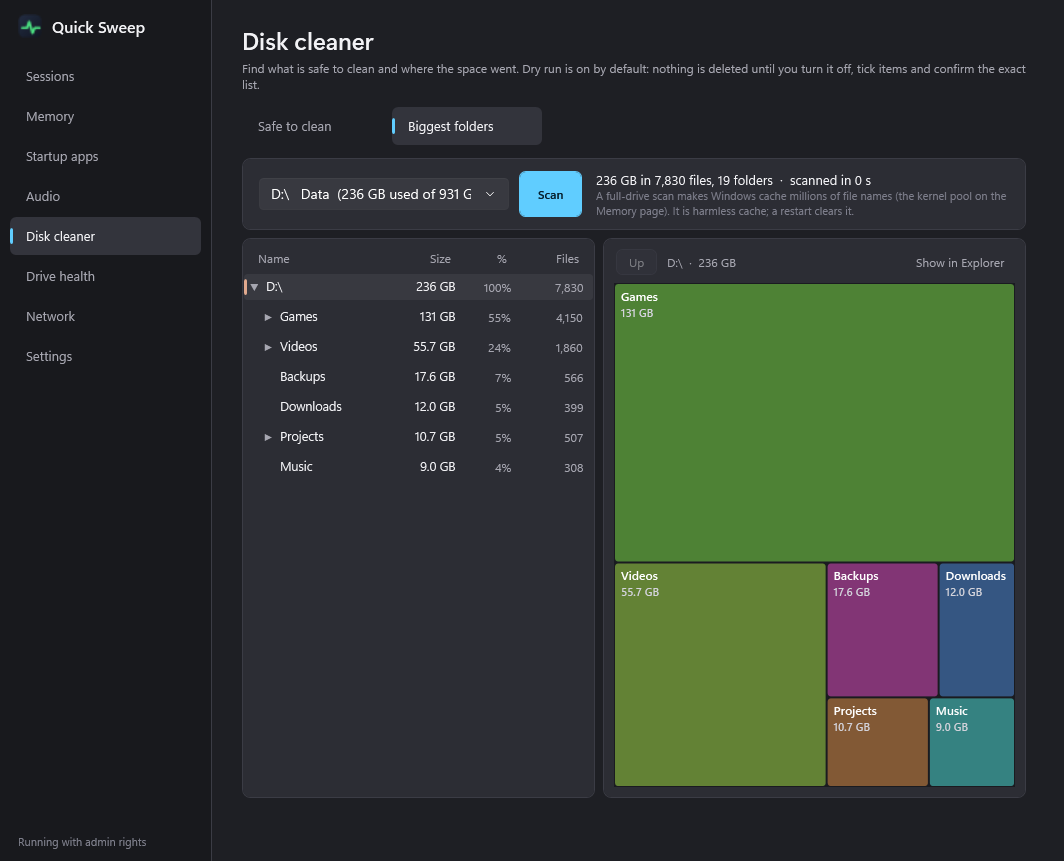
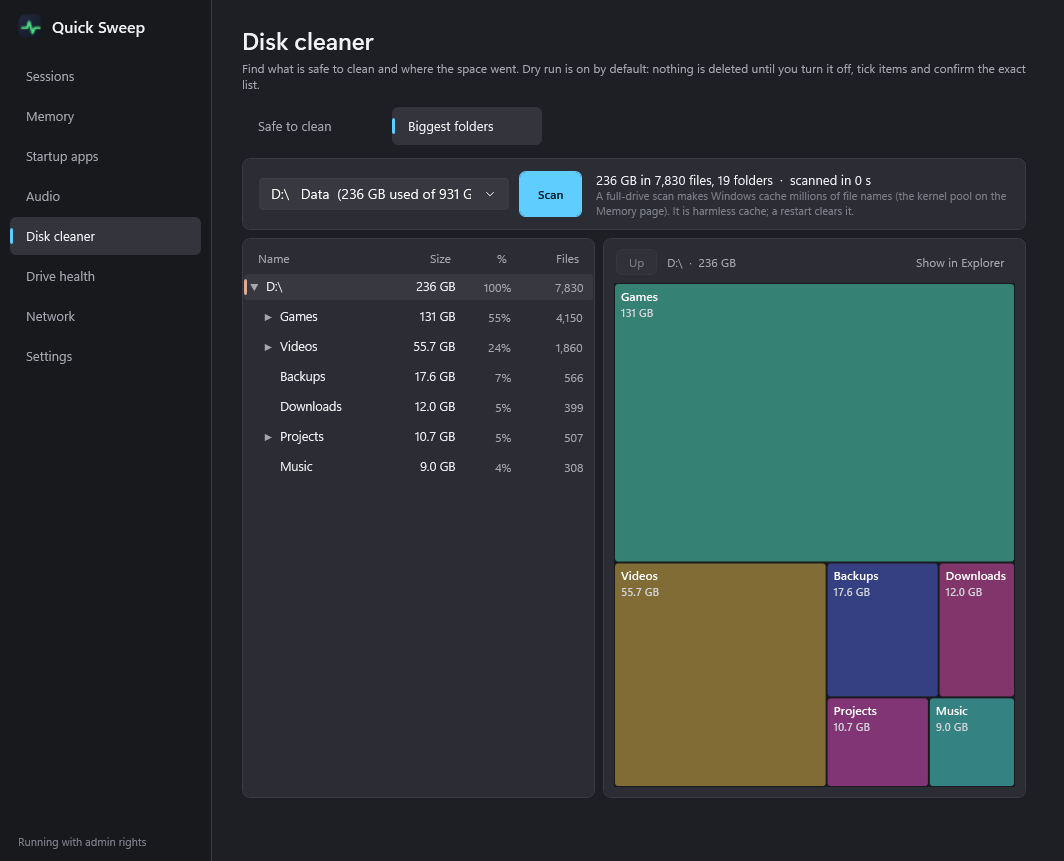
Quick Sweep 1.0.2: installer permission check no longer skips inherited entries, explicit ACLs after the copy, modules imported by full path
- install.ps1: only inherit-only CREATOR OWNER/CREATOR GROUP entries are excused; any other inheritable entry that lets a non-administrator write makes a folder untrusted (generic rights included). The install folder gets explicit protected permissions before the copy, every copied file is reset to inherit them and checked, again before the logon task is registered; the data folder is verified the same way (an untrusted one is set aside, never deleted).
- install.ps1 / uninstall.ps1 import the PowerShell modules they use by full path from the Windows PowerShell system folder and run themselves again in Windows PowerShell 5.1 when started from PowerShell 7. This fixes the 1.0.1 workflow failure (a PowerShell 7 module path inherited by the 5.1 child broke Get-Acl).
- The app's data-folder check also recognises inherited entries stored with generic rights.
- Tests for inherited entries, a PowerShell-7-style module path, whole-tree checks, and an administrator-only permission round trip. CHANGELOG.md covers 1.0.1 and 1.0.2.

Changed region(s): [[0.5583, 0.3322, 0.9615, 0.9361]]

diff --git a/tests/QuickSweep.Tests/InstallerScriptTests.cs b/tests/QuickSweep.Tests/InstallerScriptTests.cs
@@ -22,14 +22,15 @@ public class InstallerScriptTests
     static string PowerShell => Path.Combine(Environment.SystemDirectory, @"WindowsPowerShell\v1.0\powershell.exe");
 
     /// <summary>Runs one scenario of tests/scripts/installer-checks.ps1; null when the repository layout is not available.</summary>
-    static Dictionary<string, string>? Run(string script, string scenario, string? work = null)
+    static Dictionary<string, string>? Run(string script, string scenario, string? work = null, string? modulePath = null, bool raw = false)
     {
         var root = RepoRoot();
         if (root == null || !File.Exists(PowerShell)) return null;
         var psi = new ProcessStartInfo(PowerShell,
             $"-NoProfile -ExecutionPolicy Bypass -File \"{Path.Combine(root, "tests", "scripts", "installer-checks.ps1")}\" -Script \"{Path.Combine(root, script)}\" -Scenario {scenario}" +
-            (work != null ? $" -Work \"{work}\"" : ""))
+            (work != null ? $" -Work \"{work}\"" : "") + (raw ? " -Raw" : ""))
         { UseShellExecute = false, CreateNoWindow = true, RedirectStandardOutput = true, RedirectStandardError = true };
+        if (modulePath != null) psi.Environment["PSModulePath"] = modulePath;       // what a PowerShell 7 step of the workflow hands to a child
         using var p = Process.Start(psi)!;
         var stdout = p.StandardOutput.ReadToEnd(); var stderr = p.StandardError.ReadToEnd();
         Assert.True(p.WaitForExit(120_000), "the child PowerShell did not finish");
@@ -94,14 +95,107 @@ public class InstallerScriptTests
     }
 
     [Fact]
-    public void ASystemFolderIsTrustedAndALinkOrMissingFolderIsNot()
+    public void ALinkOrAMissingFolderIsNotTrusted()
     {
         using var sb = new Sandbox();
+        var junction = Run("install.ps1", "trust-junction", sb.Root);
+        if (junction == null) return;
+        Assert.Equal("False", junction["trusted"]);
+        Assert.Equal("False", Run("install.ps1", "trust-missing", sb.Root)!["trusted"]);
+    }
+
+    [Fact]
+    public void TheInstallersOwnPermissionsAreTrustedAndAGrantBelowThemIsNot()
+    {
+        // needs administrator rights (it takes ownership for Administrators): on a normal account the scenario reports "skipped", on the
+        // hosted runner it is the positive control for Set-AdminOnlyAcl, Test-TrustedStateFolder and Test-AdminOnlyTree
+        using var sb = new Sandbox();
+        var r = Run("install.ps1", "acl-roundtrip", sb.Root);
+        if (r == null || r.ContainsKey("skipped")) return;
+        Assert.Equal("True", r["folder-trusted"]);
+        Assert.Equal("True", r["tree-trusted"]);
+        Assert.Equal("False", r["tree-after-grant"]);
+    }
+
+    [Fact]
+    public void ASystemFolderWithItsDefaultPermissionsIsTrustedWhenTheImageIsStandard()
+    {
+        // informational positive control on this machine's own System32\drivers\etc: only a False caused by something other than the
+        // permission rules (an unusual image) would be a reason to look, so the assertion is on the rule-level cases above instead
         var sys = Run("install.ps1", "trust-system");
         if (sys == null) return;
-        Assert.Equal("True", sys["trusted"]);
-        Assert.Equal("False", Run("install.ps1", "trust-junction", sb.Root)!["trusted"]);
-        Assert.Equal("False", Run("install.ps1", "trust-missing", sb.Root)!["trusted"]);
+        Assert.Contains(sys["trusted"], new[] { "True", "False" });
+    }
+
+    [Fact]
+    public void AnInheritableEntryThatLetsANonAdministratorWriteMakesTheFolderUntrusted()
+    {
+        var r = Run("install.ps1", "aces");
+        if (r == null) return;
+        // entries that children inherit are judged like entries on the folder (they used to be skipped: a fail-open check)
+        Assert.Equal("1", r["users-modify-inheritable"]);
+        Assert.Equal("1", r["users-modify-inherit-only"]);
+        Assert.Equal("1", r["users-generic-all-inherit-only"]);
+        Assert.Equal("1", r["users-generic-write-inherit-only"]);
+        Assert.Equal("1", r["authenticated-users-modify-inherit-only"]);
+        Assert.Equal("1", r["everyone-write-inherit-only"]);
+        Assert.Equal("1", r["creator-owner-applies-to-folder"]);                     // only the inherit-only placeholder is excused
+        Assert.Equal("1", r["program-files-plus-a-users-modify-entry"]);
+        // what is allowed: read and execute for users, the CREATOR placeholders, administrative accounts, deny entries
+        Assert.Equal("0", r["users-generic-read-exec-inherit-only"]);
+        Assert.Equal("0", r["users-read-execute"]);
+        Assert.Equal("0", r["creator-owner-inherit-only"]);
+        Assert.Equal("0", r["creator-group-inherit-only"]);
+        Assert.Equal("0", r["administrators-inherit-only"]);
+        Assert.Equal("0", r["system-and-trustedinstaller"]);
+        Assert.Equal("0", r["deny-entries-are-ignored"]);
+        Assert.Equal("0", r["typical-program-files-folder"]);                         // the real default ACL of a Program Files subfolder passes
+    }
+
+    [Fact]
+    public void TheTreeCheckRefusesAWritableChildAndALinkAnywhereBelow()
+    {
+        using var sb = new Sandbox();
+        var r = Run("install.ps1", "tree-child-writable", sb.Root);
+        if (r == null) return;
+        Assert.Equal("False", r["tree-trusted"]);
+        Assert.Equal("False", Run("install.ps1", "tree-link", sb.Root)!["tree-trusted"]);
+    }
+
+    [Fact]
+    public void AnInheritedPowerShellSevenModulePathCannotBreakTheInstallerFunctions()
+    {
+        // The workflow runs "dotnet test" from a pwsh (PowerShell 7) step, and the Windows PowerShell 5.1 child inherits PowerShell 7's
+        // module path, where an incompatible Microsoft.PowerShell.Security comes first: Get-Acl then "could not be loaded". A stand-in for
+        // that module (it demands PowerShell 7) is put first, exactly like that.
+        using var sb = new Sandbox();
+        var fake = sb.Dir("ps7-modules");
+        var mod = sb.Dir("ps7-modules", "Microsoft.PowerShell.Security");
+        File.WriteAllText(Path.Combine(mod, "Microsoft.PowerShell.Security.psd1"),
+            "@{ ModuleVersion = '7.0.0.0'; GUID = 'a9dd0f3d-4a8c-4f43-8f16-5c0f0b6d9b11'; PowerShellVersion = '7.0'; CompatiblePSEditions = @('Core'); CmdletsToExport = @('Get-Acl','Set-Acl') }");
+        string inherited = fake + ";" + Environment.GetEnvironmentVariable("PSModulePath");
+        var raw = Run("install.ps1", "autoload", sb.Root, inherited, raw: true);
+        if (raw == null) return;
+        Assert.Equal("failed", raw["autoload"]);                                                   // the stand-in reproduces the workflow's failure
+        // with the installer's own reset and explicit import (what install.ps1 and uninstall.ps1 do first), the same environment works
+        Assert.Contains(Run("install.ps1", "trust-system", sb.Root, inherited)!["trusted"], new[] { "True", "False" });   // runs; Get-Acl loaded
+        Assert.Equal("False", Run("install.ps1", "trust-users-writable", sb.Root, inherited)!["trusted"]);
+        Assert.Equal("ok", Run("uninstall.ps1", "autoload", sb.Root, inherited)!["autoload"]);
+    }
+
+    [Fact]
+    public void BothScriptsImportWhatTheyUseByFullPathAndRerunInWindowsPowerShellWhenStartedFromPowerShellSeven()
+    {
+        var root = RepoRoot();
+        if (root == null) return;
+        foreach (var name in new[] { "install.ps1", "uninstall.ps1" })
+        {
+            var text = File.ReadAllText(Path.Combine(root, name));
+            Assert.Contains("Import-SystemModules @('ScheduledTasks')", text.Replace("'Microsoft.PowerShell.Security', ", ""));
+            Assert.Contains("Import-SystemModules @('Appx') -Optional", text);
+            Assert.Contains("$PSVersionTable.PSEdition -eq 'Core'", text);                  // started from PowerShell 7: run again in 5.1
+            Assert.Contains(@"WindowsPowerShell\v1.0\powershell.exe", text);
+        }
     }
 
     [Fact]

diff --git a/tests/QuickSweep.Tests/StandardUserTests.cs b/tests/QuickSweep.Tests/StandardUserTests.cs
@@ -18,3 +18,27 @@ public class StandardUserCanary
         Assert.False(new WindowsPrincipal(WindowsIdentity.GetCurrent()).IsInRole(WindowsBuiltInRole.Administrator));
     }
 }
+
+/// <summary>The state-folder check sees entries that children inherit (stored with generic rights), not only entries on the folder itself.</summary>
+public class InheritedEntryTests
+{
+    static List<string> Flagged(string sddl)
+    {
+        var sec = new System.Security.AccessControl.DirectorySecurity();
+        sec.SetSecurityDescriptorSddlForm(sddl);
+        return StateFolder.PermissiveEntries(sec);
+    }
+
+    [Theory]
+    [InlineData("D:(A;OICIIO;GA;;;BU)")]            // users: everything, for new children
+    [InlineData("D:(A;OICIIO;GW;;;BU)")]
+    [InlineData("D:(A;OICIIO;GA;;;AU)")]
+    [InlineData("D:(A;OICI;0x1301bf;;;BU)")]
+    public void AnEntryThatLetsUsersWriteIsFlaggedWhetherOrNotItAppliesToTheFolderItself(string sddl) => Assert.NotEmpty(Flagged(sddl));
+
+    [Theory]
+    [InlineData("D:(A;OICI;0x1200a9;;;BU)")]
+    [InlineData("D:(A;OICIIO;GRGX;;;BU)")]
+    [InlineData("D:(A;;FA;;;SY)(A;OICIIO;GA;;;SY)(A;;FA;;;BA)(A;OICIIO;GA;;;BA)")]
+    public void ReadOnlyEntriesAndAdministrativeAccountsAreNot(string sddl) => Assert.Empty(Flagged(sddl));
+}

diff --git a/src/QuickSweep/Core/StateFolder.cs b/src/QuickSweep/Core/StateFolder.cs
@@ -20,7 +20,8 @@ public static class StateFolder
 
     /// <summary>Rights that let an account change what the elevated process will later read or write.</summary>
     const FileSystemRights WriteLike = FileSystemRights.Write | FileSystemRights.Delete | FileSystemRights.DeleteSubdirectoriesAndFiles
-        | FileSystemRights.ChangePermissions | FileSystemRights.TakeOwnership;
+        | FileSystemRights.ChangePermissions | FileSystemRights.TakeOwnership
+        | (FileSystemRights)0x50000000;   // GENERIC_WRITE and GENERIC_ALL: entries that children inherit are stored with generic rights
 
     public static bool IsTrusted(SecurityIdentifier? sid, IEnumerable<SecurityIdentifier>? extra = null)
         => sid != null && (sid == SystemSid || sid == AdminsSid || sid == TrustedInstallerSid || (extra?.Contains(sid) ?? false));

diff --git a/README.md b/README.md
@@ -67,7 +67,7 @@ Windows SmartScreen may say "Windows protected your PC" the first time, because 
 **Why it asks for administrator rights.** CPU temperature lives in model-specific registers and PCI configuration space that normal programs cannot read, and drive SMART data needs raw disk access. Both need admin. So the installer registers a Windows scheduled task that starts Quick Sweep at logon with the highest privileges, hidden, with no permission prompt each time. Without admin, Quick Sweep still works, but the CPU temperature and drive health show as unavailable.
 
 **What the installer does:**
-1. Copies the program to `C:\Program Files\QuickSweep` (only administrators can change it, because the program runs elevated) and creates the data folder `C:\ProgramData\QuickSweep` (users can read it, only administrators and the system can write). Because the installer runs with administrator rights, it does not trust your environment variables: the folders come from Windows' own records, it refuses to install into a folder that non-administrators could write to, tools and PowerShell modules are taken from the system folders only, and after registering the task it reads it back to check that it points at the program below the real `Program Files`.
+1. Copies the program to `C:\Program Files\QuickSweep` (only administrators can change it, because the program runs elevated) and creates the data folder `C:\ProgramData\QuickSweep` (users can read it, only administrators and the system can write). Because the installer runs with administrator rights, it does not trust your environment variables: the folders come from Windows' own records, it refuses to install into a folder that non-administrators could write to (including a permission entry that only new files would inherit), gives the install folder its own protected permissions before copying and checks every copied file afterwards, tools and PowerShell modules are taken from the system folders only (it runs in Windows PowerShell 5.1, and runs itself again there if you started it from PowerShell 7), and after registering the task it reads it back to check that it points at the program below the real `Program Files`.
 2. Installs the **.NET 10 Desktop Runtime** from Microsoft through `winget` if it is missing, after asking.
 3. Installs the **PawnIO** driver through `winget` (`namazso.PawnIO`) if it is missing, after asking. Skip it with `install.ps1 -SkipSensorDriver`; the CPU temperature then shows as unavailable.
 4. Registers the scheduled task `QuickSweep` and adds a Start-menu shortcut.
@@ -135,7 +135,7 @@ dotnet test tests/QuickSweep.Tests -c Release --filter "Needs!=NonAdmin"   # the
 .\install.ps1        # from an elevated PowerShell: installs what is in .\dist
 ```
 
-**Testing.** The unit tests need no hardware and no installed copy. GitHub's hosted Windows runner works as an administrator, so the main CI step runs everything except the tests marked `Needs=NonAdmin` (they check what an ordinary account can and cannot do). A second, best-effort job creates a fresh local standard user on the runner and runs exactly those tests as that user; if the runner refuses to create or log on that account, the job reports a warning instead of failing the workflow, so treat those tests as possibly not run in CI. Locally, `dotnet test tests/QuickSweep.Tests -c Release` from a normal (non-elevated) prompt runs all of them. The tests for the installer scripts load the scripts' own functions in a child PowerShell; the installer itself is never run by the tests.
+**Testing.** The unit tests need no hardware and no installed copy. GitHub's hosted Windows runner works as an administrator, so the main CI step runs everything except the tests marked `Needs=NonAdmin` (they check what an ordinary account can and cannot do). A second, best-effort job creates a fresh local standard user on the runner and runs exactly those tests as that user; if the runner refuses to create or log on that account, the job reports a warning instead of failing the workflow, so treat those tests as possibly not run in CI. Locally, `dotnet test tests/QuickSweep.Tests -c Release` from a normal (non-elevated) prompt runs all of them. The tests for the installer scripts load the scripts' own functions in a child Windows PowerShell, also with a PowerShell-7-style module path inherited the way the workflow's `pwsh` step hands it down; the installer itself is never run by the tests.
 
 The tests build their sandboxes under `%QUICKSWEEP_TEST_TMP%` (default: the temp folder). They include real NTFS junctions to prove that a link's target survives. `tests/e2e-security.ps1` runs an isolated `--dev` instance with a scratch data folder. `tests/e2e-game.ps1` starts a stand-in game and refuses to run unless you pass `-IUnderstandThisSlowsRealBackgroundWork`, because Game Mode would slow every real encoder, script and browser while it runs; use it on an idle test PC only.
 
@@ -154,4 +154,4 @@ The installed instance runs elevated, so it never trusts a place a normal proces
 
 ## License
 
-[MIT](LICENSE). Bundled libraries and their licenses are listed in [THIRD-PARTY-NOTICES.md](THIRD-PARTY-NOTICES.md).
+[MIT](LICENSE). Bundled libraries and their licenses are listed in [THIRD-PARTY-NOTICES.md](THIRD-PARTY-NOTICES.md). What changed in each version: [CHANGELOG.md](CHANGELOG.md).

diff --git a/CHANGELOG.md b/CHANGELOG.md
@@ -1,0 +1,20 @@
+# Changelog
+
+## 1.0.2
+
+- **Installer permission check fixed.** The check that the folder Quick Sweep is installed into is administrators-only skipped every permission entry that is only inherited by files and folders created later. Now any inheritable entry that gives a non-administrator the right to write, delete or change permissions makes the folder untrusted (only the CREATOR OWNER and CREATOR GROUP placeholders are excused, and only when inherit-only). Generic write and all-access rights count too.
+- **Explicit permissions after the copy.** The install folder is given its own protected permissions (inheritance removed; SYSTEM and Administrators full control, Users read and execute) before the files are copied in, every copied file is reset to inherit them, and every file and folder is checked afterwards, as is the folder once more right before the logon task is registered. The data folder gets the same verification; if something inside it is not administrators-only, it is renamed aside (never deleted) and a fresh folder is used.
+- **The installer and uninstaller load their PowerShell modules by full path** from the Windows PowerShell system folder, and run themselves again in Windows PowerShell 5.1 when they are started from PowerShell 7. A PowerShell 7 window used to hand its own module path to the 5.1 process, which then could not load `Microsoft.PowerShell.Security`. This is also what broke two of the installer-script tests on the 1.0.1 workflow run.
+- The app's own check of its data folder now also recognises inherited entries stored with generic rights.
+- Added a canary test that the standard-user CI job really runs without administrator rights, and tests for the cases above (inherited entries, a PowerShell-7-style module path, the permission check of a whole tree).
+
+## 1.0.1 (tagged, never released: its workflow run failed; everything in it is in 1.0.2)
+
+- **The installer and uninstaller no longer trust environment variables.** Locations come from Windows' known folders, `PATH` and `PSModulePath` are reset to the system folders, winget is only run from its own package folder, the install folder must be administrators-only before anything is copied, and the logon task is read back after registration to check that it points at the program below the real `Program Files`. The batch file starts PowerShell from the system folder by absolute path.
+- **Protected folders.** `?` now stands for one character. A relative path, a bare folder name, a network path, a `..` or an unknown `%variable%` is ignored and flagged inline in Settings (a line that is valid but matches no folder right now gets a note).
+- **Personal folders** (Documents, Desktop, Pictures, Videos, Music, Downloads, OneDrive) are looked up through the known-folder API for the interactive user, so a folder moved to another drive is protected where it really is.
+- **CI.** Read-only workflow token; a separate release job that only uploads; a best-effort job that runs the tests marked "non-admin" as a freshly created standard user.
+
+## 1.0.0
+
+First public release.
